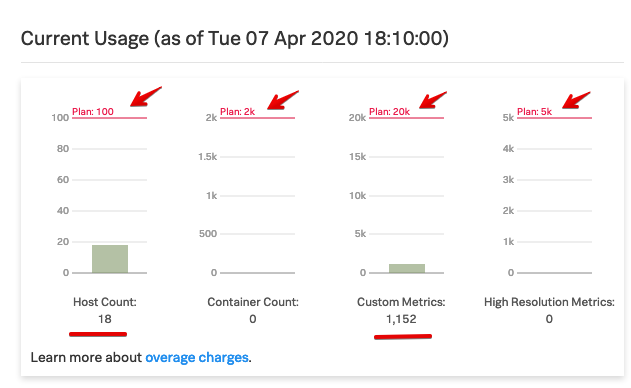
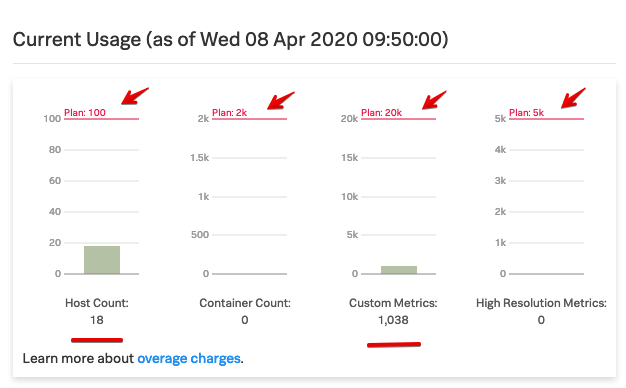
Module5 lab1 updated

diff --git a/docs/modules/module5/service_bureau.md b/docs/modules/module5/service_bureau.md
@@ -48,7 +48,7 @@ For more information on what these are please read [Billing and Usage informatio
 
 The top chart shows you the current allotment per category,
 (shown at the red arrows at the top in the screenshot below), as wel as your current usage of the four catagories. (Shown at the red lines at the bottom of the chart, as you can see we consumed 
-18 hosts, 0 containers and 1152 custom metrics and 0 high resolution metrics) 
+18 hosts, 0 containers and 1038 custom metrics and 0 high resolution metrics) 
 
 ![Billing and Usage-top](../images/module5/M5-l1-6.png)
 
@@ -56,7 +56,7 @@ In the bottom chart, you can see the usage per category for the current period (
 drop-down box on the top right of the chart.) 
 The blue line marked _Average usage_ indicates what SignalFx will use to calculate your average usage for the current period. 
 
-![Billing and Usage-Bottom](../images/module5/M5-l1-6A.png)
+![Billing and Usage-Bottom](../images/module5/M5-l1-7.png)
 
 
 !!! info
@@ -65,8 +65,8 @@ The blue line marked _Average usage_ indicates what SignalFx will use to calcula
 
 In the pane on the right  shows you information about your organizations and contract end date.
 
-![Billing and Usage-Pane](../images/module5/M5-l1-6B.png)
+![Billing and Usage-Pane](../images/module5/M5-l1-8.png)
 
 To get a feel of the options you can change the category type by the drop down on the left or the time period with the right drop box.
 
-Please take a minute to explore the different time periods & categories and their usage.
+Please take a minute to explore the different time periods & categories and their views.
